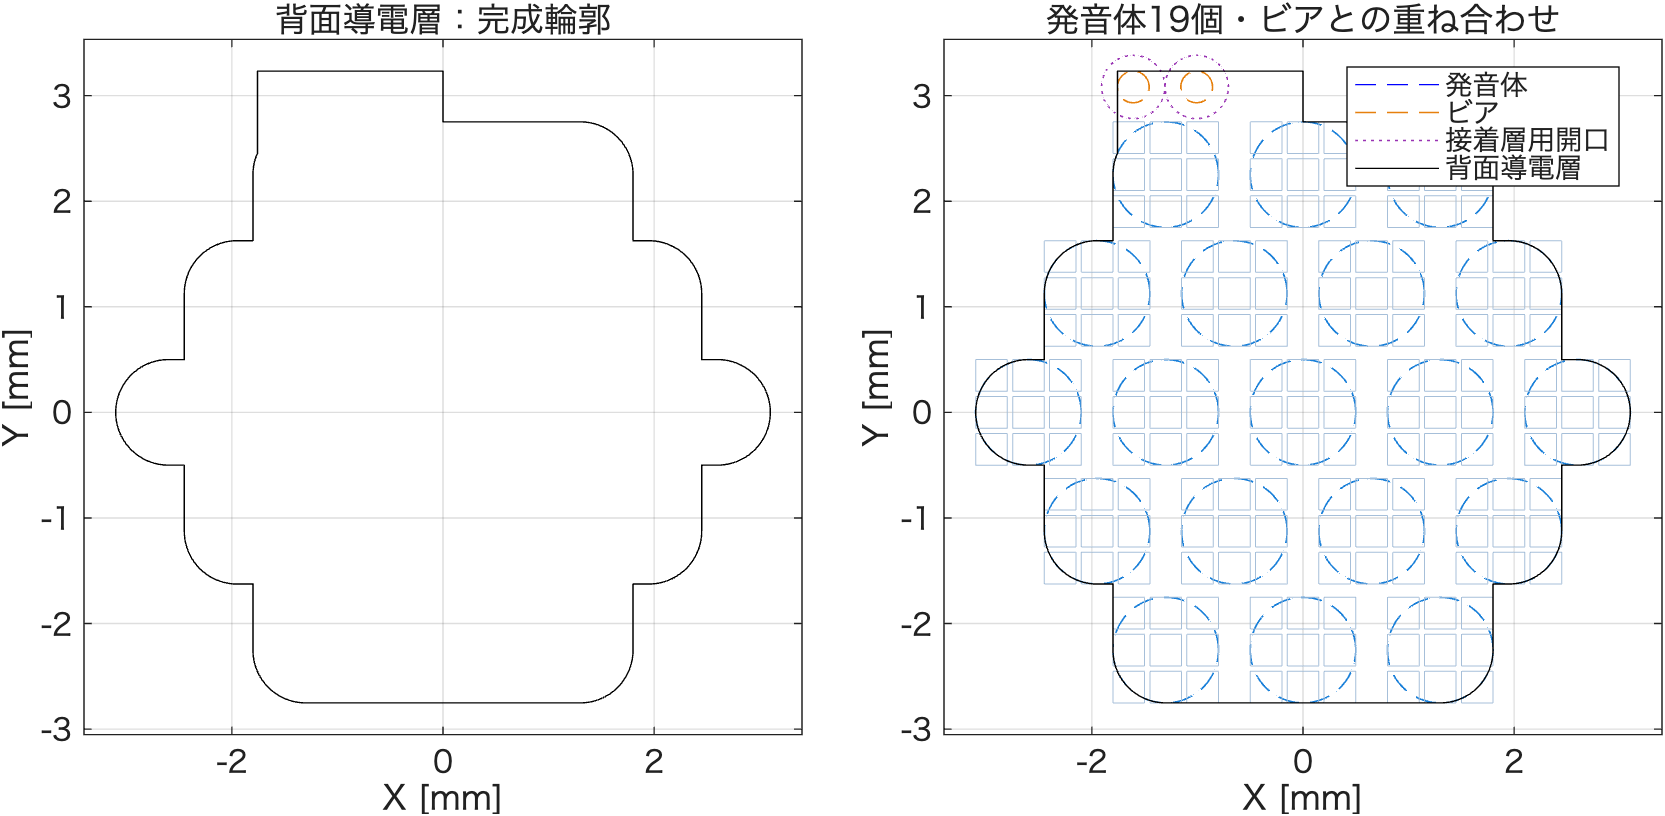
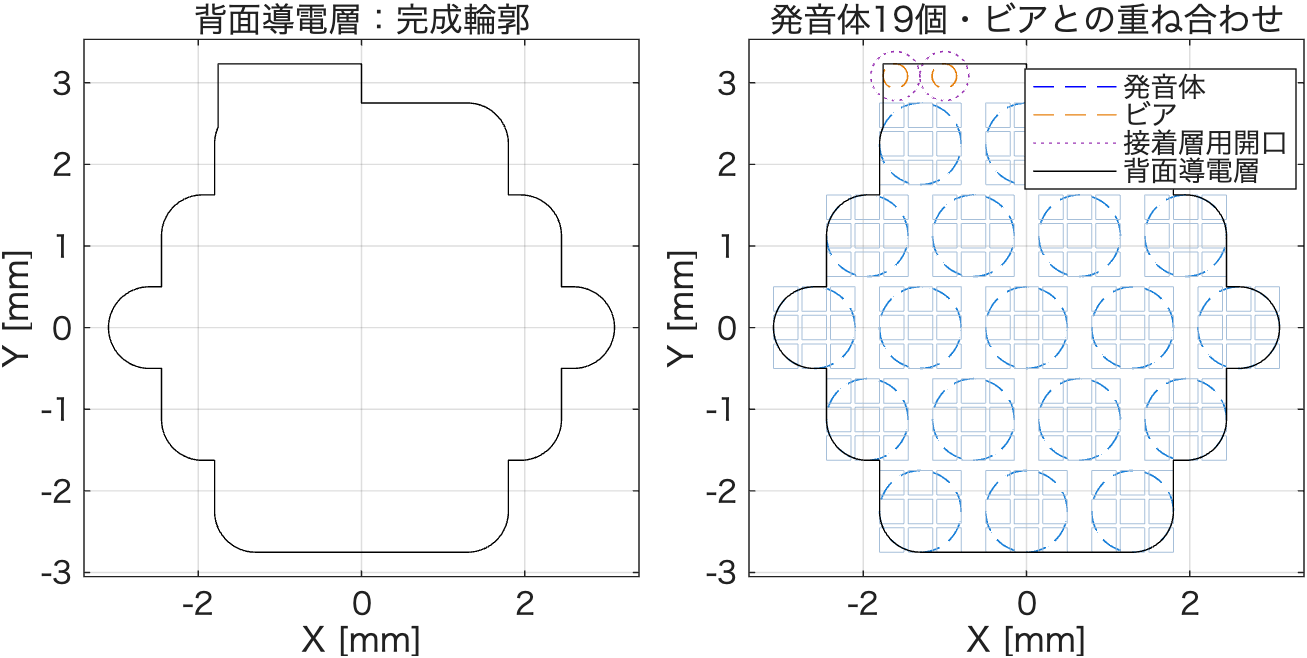
feat: add output options for mirrored conductive layer and update related functions

diff --git a/phi-1mm/merge_layer_drawings.m b/phi-1mm/merge_layer_drawings.m
@@ -26,6 +26,12 @@ input_files = {
 names = {'BACK_LAYER','EMITTER','LOWER_ELECTRODE','CONDUCTIVE_LAYER_LOWER_ELECTRODE','CONDUCTIVE_LAYER_BACK_LAYER','SUBSTRATE_VIA','ADHESIVE_VIA_OPENINGS'};
 colors = [0.10 0.45 0.90; 0.15 0.65 0.25; 0.90 0.20 0.15; 0.65 0.20 0.80; 0.95 0.55 0.10;0.10 0.70 0.75;0.60 0.35 0.10];
 cad_colors = [5,3,1,6,2,4,30];
+% 内部の図形は設計時の向きで統一。旧形式のSCRも同じ向きで読める。
+idx = find(strcmp(names,'CONDUCTIVE_LAYER_BACK_LAYER'));
+design_file = fullfile(fileparts(input_files{idx}),'conductive_layer_back_layer_reverse.scr');
+if isfile(design_file)
+    input_files{idx} = design_file;
+end
 % 存在する層を自動選択。外形は従来どおり必要。
 assert(isfile(outline_file),'外形SCRがありません: %s',outline_file);
 available = cellfun(@isfile,input_files);
@@ -99,10 +105,18 @@ for i = 1:n_layers
     stem = [lower(names{i}) '_with_outline'];
     layer_names = [{'OUTLINE'},names(i)];
     layer_colors = [7,cad_colors(i)];
-    write_merged(fullfile(output_dir,[stem '.scr']), ...
-        texts([1,i+1]),layer_names,layer_colors);
-    write_dxf(fullfile(dxf_dir,[stem '.dxf']), ...
-        geometry([1,i+1]),layer_names,layer_colors);
+    pair_text = texts([1,i+1]);
+    pair_geo = geometry([1,i+1]);
+    if strcmp(names{i},'CONDUCTIVE_LAYER_BACK_LAYER')
+        % 設計時の組をそのまま保存し、最終使用版では組全体を同じ軸で反転。
+        write_merged(fullfile(output_dir,[stem '_reverse.scr']),pair_text,layer_names,layer_colors);
+        write_dxf(fullfile(dxf_dir,[stem '_reverse.dxf']),pair_geo,layer_names,layer_colors);
+        for j = 1:numel(pair_geo)
+            [pair_geo{j},pair_text{j}] = mirror_contours(pair_geo{j},outline_min(1)+outline_max(1));
+        end
+    end
+    write_merged(fullfile(output_dir,[stem '.scr']),pair_text,layer_names,layer_colors);
+    write_dxf(fullfile(dxf_dir,[stem '.dxf']),pair_geo,layer_names,layer_colors);
 end
 write_merged(fullfile(output_dir,'available_layers_with_outline.scr'), ...
     texts,[{'OUTLINE'},names],[7,cad_colors]);
@@ -133,6 +147,23 @@ fprintf('出力先: %s\n',output_dir);
 fprintf('合成SCR: available_layers_with_outline.scr\n');
 fprintf('DXF出力先: %s\n',dxf_dir);
 fprintf('凡例クリックで各層の表示を切り替えられます。\n');
+end
+
+function [geo,scr] = mirror_contours(geo,x_sum)
+% 外形・背面導電層はいずれも閉じた輪郭。DXFの円弧は反射で回転方向が逆になる。
+assert(isempty(geo.circles),'外形・背面導電層には輪郭ポリラインが必要です。');
+parts = cell(size(geo.polygons));
+for i = 1:numel(parts)
+    xy = geo.polygons{i};
+    xy(:,1) = x_sum-xy(:,1);
+    geo.polygons{i} = xy;
+    parts{i} = ['_PLINE',newline,sprintf('_NON %.10f,%.10f\n',xy.'),'_C',newline];
+end
+scr = [parts{:}];
+if isfield(geo,'dxf_outline')
+    geo.dxf_outline(:,1) = x_sum-geo.dxf_outline(:,1);
+    geo.dxf_outline(:,3) = -geo.dxf_outline(:,3);
+end
 end
 
 function scr = make_group_scr(root,layer,group_centers)

diff --git a/phi-1mm/conductive_layer_back_layer.m b/phi-1mm/conductive_layer_back_layer.m
@@ -36,6 +36,7 @@ search.fine_step = 0.002;     % 中点の局所精査ピッチ [mm]
 search.angle_degrees = [0,30,45,60,90,120,135,150];
 search.fine_angle_step = 1;   % 局所精査の角度ピッチ [deg]
 search.fine_angle_range = 5;  % 最良方向の前後を精査 [deg]
+mirror_axis_x = 2.5;         % 発音体外形の左右端 (-49.4, 54.4) の中点 [mm]
 curve_tolerance_um = 0.1;    % 曲線をPLINE化するときの最大弦誤差
 
 %% 設定確認
@@ -148,8 +149,17 @@ assert(min(pattern_gaps)>=required_pattern_gap-1e-8, ...
 %% CAD出力（輪郭/ビア/接着層を分ける）
 output_folder = fullfile(root,'scr-conductive-layer-back-layer');
 if ~exist(output_folder,'dir'),mkdir(output_folder);end
+[x,y] = boundary(body);
+vertices = [x,y];
+assert(all(isfinite(vertices),'all'),'輪郭に複数の境界があります。');
+if norm(vertices(1,:)-vertices(end,:))<1e-10,vertices(end,:)=[];end
+% 全層の位置合わせには設計時の向き、単独で使用する図面には鏡像を使う。
+write_patterns(fullfile(output_folder,'conductive_layer_back_layer_reverse.scr'), ...
+    vertices,hex_centers);
+mirrored_centers = hex_centers;
+mirrored_centers(:,1) = 2*mirror_axis_x - hex_centers(:,1);
 write_patterns(fullfile(output_folder,'conductive_layer_back_layer.scr'), ...
-    body,hex_centers);
+    [-vertices(:,1),vertices(:,2)],mirrored_centers);
 write_circles(fullfile(output_folder,'substrate_via.scr'),via_centers,via_radius);
 write_circles(fullfile(output_folder,'adhesive_via_openings.scr'), ...
     adhesive_centers,adhesive_radius);
@@ -243,12 +253,9 @@ for first = 1:100:size(points,1)
 end
 end
 
-function write_patterns(filename,body,centers)
+function write_patterns(filename,vertices,centers)
 fid = fopen(filename,'w');assert(fid~=-1,'出力を開けません: %s',filename);
 cleanup = onCleanup(@() fclose(fid));
-[x,y] = boundary(body);vertices = [x,y];
-assert(all(isfinite(vertices),'all'),'輪郭に複数の境界があります。');
-if norm(vertices(1,:)-vertices(end,:))<1e-10,vertices(end,:)=[];end
 for i = 1:size(centers,1)
     fprintf(fid,'PLINE\n');
     fprintf(fid,'%.10f,%.10f\n',(vertices+centers(i,:)).');

diff --git a/README.md b/README.md
@@ -58,6 +58,13 @@ merge_layer_drawings
 
 `conductive_layer_back_layer` は、発音体 SCR があれば中心と半径を照合する。整合性を確認する場合は `emitter_positions` を先に実行すること。発音体 SCR が未生成の場合は設定値から配置を計算する。
 
+背面導電層の生成時に出力する以下の SCR は、導電層の輪郭のみを含む。MATLAB の個別表示・全層表示、全層の SCR / DXF は設計時の向きでそろえる。ビア・接着層用開口は設計時の座標を使用する。
+
+| SCR | 導電層の向き | 用途 |
+| --- | --- | --- |
+| `conductive_layer_back_layer.scr` | 外形中央の X = 2.5 mm を軸に左右反転 | 接尾辞なしの個別図面 |
+| `conductive_layer_back_layer_reverse.scr` | 反転前の設計時の向き | 個別図面（`_with_outline_reverse`）および全層の重ね合わせ |
+
 ### 外形との合成
 
 `merge_layer_drawings` は `outline-rectangle/outline_rectangle_pattern_Emitter.scr` を読み込み、右辺中央のコの字切り欠きを含む外周と、四隅の円弧を合成する。
@@ -68,6 +75,14 @@ merge_layer_drawings
 | --- | --- | --- |
 | 各層と外形 | `scr-merged-trimmed/<層名>_with_outline.scr` | `dxf-merged-trimmed-r12/<層名>_with_outline.dxf` |
 | 読み込めた全層と外形 | `scr-merged-trimmed/available_layers_with_outline.scr` | `dxf-merged-trimmed-r12/available_layers_with_outline.dxf` |
+
+背面導電層の外形付き図面は、次のファイル名で SCR / DXF を出力する。
+
+| ファイル名（拡張子を除く） | 導電層と基板外形の向き | コの字切り欠き |
+| --- | --- | --- |
+| `conductive_layer_back_layer_with_outline`（最終使用版） | 両方を外形中央の X = 2.5 mm を軸に左右反転 | 左側 |
+| `conductive_layer_back_layer_with_outline_reverse` | 両方とも設計時の向き | 右側 |
+| `available_layers_with_outline`（全層） | 両方とも設計時の向き | 右側 |
 
 全層の確認図では、凡例をクリックして各レイヤーの表示を切り替えられる。`mask_gap_resist.scr` は合成対象に含まれていないため、個別に扱う。
 
